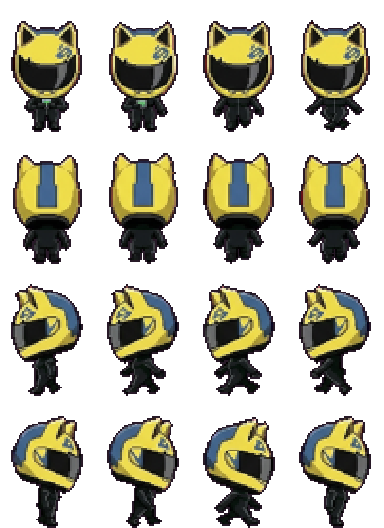
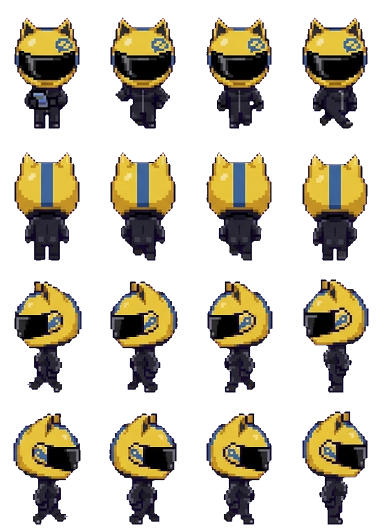
Redraw Celty Sturluson in the shared art style
Claude-Session: https://claude.ai/code/session_01KaPsBYLrtbRfMYNG2xeBCK

diff --git a/docs/app.js b/docs/app.js
@@ -75,7 +75,7 @@ function spr(cat, k, col, sc) {
   return `<div class="clip" style="width:${it[2] * sc}px;height:${it[3] * sc}px;POS"><img class="px" src="assets/decor/${cat}.png" alt="" style="width:${S.sw * sc}px;height:${S.sh * sc}px;margin-left:${-col * S.cw * sc}px;margin-top:${-i * S.ch * sc}px"></div>`;
 }
 const icon = (k, sz) => `<span class="itm" style="width:${sz}px;height:${sz}px"><img class="px" src="assets/ui/items.png" alt="" style="width:${IT.length * sz}px;height:${sz}px;margin-left:${-ITM[k].i * sz}px"></span>`;
-const face = (id, w) => { const s = w / 96; return `<img class="px" src="assets/ch/${id}.webp?v=72" alt="" style="position:absolute;width:${384 * s}px;height:${528 * s}px;left:${-(96 * s - w) / 2}px;top:0;max-width:none">`; };
+const face = (id, w) => { const s = w / 96; return `<img class="px" src="assets/ch/${id}.webp?v=73" alt="" style="position:absolute;width:${384 * s}px;height:${528 * s}px;left:${-(96 * s - w) / 2}px;top:0;max-width:none">`; };
 
 // ---------- 저장 ----------
 let fb = null, user = null, S = null, saveT = null;
@@ -143,7 +143,7 @@ function sleepHTML(id, r, dy) {
   const pos = r.a && r.a[0] === 'bed' ? 'left:3%;bottom:20%' : r.b && r.b[0] === 'bed' ? 'right:3%;bottom:20%' : 'left:calc(50% - 44px);bottom:6%';
   const s = 36 / 96;
   return `<div style="position:absolute;width:88px;height:56px;${pos};z-index:${dy ? 4 : 5};${dy ? `transform:translate(12px,${dy}px)` : ''}"><div style="position:absolute;inset:0;filter:brightness(.22)">
-    <div style="position:absolute;left:11px;top:1px;width:36px;height:50px;overflow:hidden;transform:rotate(-90deg)"><img class="px" src="assets/ch/${id}.webp?v=72" alt="" style="width:${384 * s}px;height:${528 * s}px;max-width:none;margin-top:${-132 * s}px"></div>
+    <div style="position:absolute;left:11px;top:1px;width:36px;height:50px;overflow:hidden;transform:rotate(-90deg)"><img class="px" src="assets/ch/${id}.webp?v=73" alt="" style="width:${384 * s}px;height:${528 * s}px;max-width:none;margin-top:${-132 * s}px"></div>
     <div style="position:absolute;left:19px;top:19px;width:67px;height:29px;border:2px solid var(--ink);border-radius:8px 6px 4px 4px;background:#8ccff5;background-image:repeating-linear-gradient(90deg,transparent 0 10px,rgba(255,255,255,.5) 10px 13px)"></div></div>
     ${dy ? '' : '<span class="emo" style="left:8px;top:-22px;color:#5b6bd6">Z z z</span>'}</div>`;
 }
@@ -153,8 +153,8 @@ function roomHTML(id, o, scale) {
     <div class="floor" style="background-color:${PAL[r.fc][1]};background-image:${tileUrl('floor', r.fl)}"></div>
     ${slot('deco', r.dc, 'left:6%;top:6%')}${slot('furn', r.a, 'left:3%;bottom:20%')}${slot('furn', r.b, 'right:3%;bottom:20%')}${slot('prop', r.pr, 'left:28%;bottom:4%;z-index:2')}
     ${id && o.sleeping && g ? sleepHTML(g, r, -16) : ''}${id && o.sleeping ? sleepHTML(id, r) : ''}${id && o.job ? `<div style="position:absolute;left:50%;top:38%;transform:translateX(-50%);z-index:5;background:#fff;border:3px solid var(--ink);border-radius:10px;padding:6px 10px;font-size:11px;text-align:center;line-height:1.5"><img src="assets/ui/ic_job.png" alt="" style="width:18px;vertical-align:-4px"> ${WORK[id] ? WORK[id][1] : esc(JOB_NAME[id]) + ' 알바 중'}${g ? `<br><small>${esc(nameOf(g))}도 같이</small>` : ''}<br><b id="jobleft">${timeLeft(o.job.until)}</b></div>` : ''}
-    ${id ? `<div class="shadow" id="shd" ${o.sleeping || o.job ? 'style="display:none"' : ''}></div><div class="man" id="man" ${o.sleeping || o.job ? 'style="display:none"' : ''}><img class="px" src="assets/ch/${id}.webp?v=72" alt="${esc(nameOf(id))}"></div><span class="emo" id="emo" hidden></span><span class="mumble" id="mum" hidden></span>` : ''}
-    ${g ? `<div class="shadow" id="gshd" ${hideG}></div><div class="man" id="gman" ${hideG}><img class="px" src="assets/ch/${g}.webp?v=72" alt="${esc(nameOf(g))}"></div><span class="emo" id="gemo" hidden></span><span class="mumble gmum" id="gmum" hidden></span>` : ''}
+    ${id ? `<div class="shadow" id="shd" ${o.sleeping || o.job ? 'style="display:none"' : ''}></div><div class="man" id="man" ${o.sleeping || o.job ? 'style="display:none"' : ''}><img class="px" src="assets/ch/${id}.webp?v=73" alt="${esc(nameOf(id))}"></div><span class="emo" id="emo" hidden></span><span class="mumble" id="mum" hidden></span>` : ''}
+    ${g ? `<div class="shadow" id="gshd" ${hideG}></div><div class="man" id="gman" ${hideG}><img class="px" src="assets/ch/${g}.webp?v=73" alt="${esc(nameOf(g))}"></div><span class="emo" id="gemo" hidden></span><span class="mumble gmum" id="gmum" hidden></span>` : ''}
     ${o.sleeping ? `<div class="night"></div><div class="sleepleft">쿨쿨 · 일어나기까지 <b id="sleepleft">${timeLeft(wakeAt(o)).replace(' 남음', '')}</b></div>` : ''}
   </div>`;
 }
@@ -167,7 +167,7 @@ function meterHTML(o) {
 const ic = (act, img, label, pressed) => `<button class="ic" data-act="${act}" ${pressed ? 'aria-pressed="true"' : ''}><img src="assets/ui/ic_${img}.png?v=2" alt="">${label}</button>`;
 
 let dropStyle = null; const cheat = {};
-const APP_V = 145, COUPONS = { NINOGUYA: 3000 };
+const APP_V = 146, COUPONS = { NINOGUYA: 3000 };
 // 쿠폰 입력 정리: 한글 자판 상태로 친 글자(ㅜㅑㅜㅐ혀ㅛㅁ)도 영어 자판 글자로 바꾸고, 대소문자·띄어쓰기·마침표는 무시해요
 const KEY = { ㄱ: 'r', ㄲ: 'R', ㄴ: 's', ㄷ: 'e', ㄸ: 'E', ㄹ: 'f', ㅁ: 'a', ㅂ: 'q', ㅃ: 'Q', ㅅ: 't', ㅆ: 'T', ㅇ: 'd', ㅈ: 'w', ㅉ: 'W', ㅊ: 'c', ㅋ: 'z', ㅌ: 'x', ㅍ: 'v', ㅎ: 'g',
   ㅏ: 'k', ㅐ: 'o', ㅑ: 'i', ㅒ: 'O', ㅓ: 'j', ㅔ: 'p', ㅕ: 'u', ㅖ: 'P', ㅗ: 'h', ㅘ: 'hk', ㅙ: 'ho', ㅚ: 'hl', ㅛ: 'y', ㅜ: 'n', ㅝ: 'nj', ㅞ: 'np', ㅟ: 'nl', ㅠ: 'b', ㅡ: 'm', ㅢ: 'ml', ㅣ: 'l',
@@ -407,7 +407,7 @@ function startTrip(k) {
   if (tg) lines[1] = `${nameOf(tg)}: ${withHim(sub(pick(GLX(tg).trip), o, c.n), tg)}`;
   const n = (FR[id] || [4, 4, 4, 4])[3], el = document.createElement('div'); el.className = 'tripview';
   el.innerHTML = `<div class="tsay"> </div><div class="tstage" style="background-image:url(assets/travel/${k}.png?v=2)"><div class="tplace">${esc(c.n)}</div>
-    <div class="twalker"><img class="px" src="assets/ch/${id}.webp?v=72" alt=""></div>${tg ? `<div class="twalker tgirl"><img class="px" src="assets/ch/${tg}.webp?v=72" alt=""></div>` : ''}<span class="emo tjoy">♪</span></div>
+    <div class="twalker"><img class="px" src="assets/ch/${id}.webp?v=73" alt=""></div>${tg ? `<div class="twalker tgirl"><img class="px" src="assets/ch/${tg}.webp?v=73" alt=""></div>` : ''}<span class="emo tjoy">♪</span></div>
     <div class="tbar"><i></i></div><button class="btn white tskip" data-tskip="1">바로 돌아오기</button>`;
   document.body.appendChild(el);
   const gimg = el.querySelector('.tgirl img'), gn = tg ? (FR[tg] || [4, 4, 4, 4])[3] : 1;
@@ -665,7 +665,7 @@ setInterval(() => { if (S && user) { tickTime(); save(); } }, 60000);
     if (nv > APP_V && !location.search.includes('u=' + nv)) { location.replace(location.pathname + '?u=' + nv); return; }
   } catch { }
   app.innerHTML = '<div class="start"><div class="egg"><div class="scr"></div></div><div class="note">불러오는 중....</div></div>';
-  const [c, t, f, it, mu, ct, tv, gl, sts] = await Promise.all(['data/chars.json', 'data/talk.json', 'data/frames.json', 'data/items.json', 'data/mumble.json', 'data/countries.json', 'data/travel.json', 'data/girls.json', 'data/sets.json'].map(u => fetch(u + '?v=145').then(r => r.ok ? r.json() : {})));
+  const [c, t, f, it, mu, ct, tv, gl, sts] = await Promise.all(['data/chars.json', 'data/talk.json', 'data/frames.json', 'data/items.json', 'data/mumble.json', 'data/countries.json', 'data/travel.json', 'data/girls.json', 'data/sets.json'].map(u => fetch(u + '?v=146').then(r => r.ok ? r.json() : {})));
   CH = c; CHM = Object.fromEntries(c.map(x => [x.id, x])); TALK = t; FR = f; IT = it; ITM = Object.fromEntries(it.map(x => [x.k, x])); MUM = mu; CTRY = ct; TRV = tv; GL = Array.isArray(gl) ? gl : []; SETS = Array.isArray(sts) ? sts : []; GLM = Object.fromEntries(GL.map(x => [x.id, x]));
   try { await initFirebase(); } catch (e) { console.warn('Firebase 연결 실패, 기기 저장으로', e); fb = null; }
   if (fb) {

diff --git a/docs/index.html b/docs/index.html
@@ -18,6 +18,6 @@
 <main id="app" aria-live="polite"></main>
 <div id="toast" role="status" hidden></div>
 <script src="firebase-config.js?v=3"></script>
-<script type="module" src="app.js?v=145"></script>
+<script type="module" src="app.js?v=146"></script>
 </body>
 </html>
